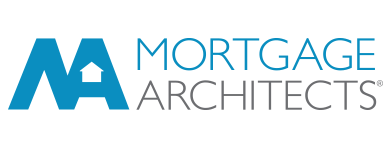
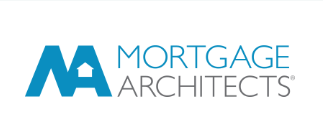
addwhitebackgroundlogos

Changed region(s): [[0.0, 0.2302, 0.9907, 0.7482]]

diff --git a/website2025/index.html b/website2025/index.html
@@ -68,6 +68,7 @@
                                 <li><span>Administrative Assistant</span><br>Java, JavaScript, Python, C, VB.net, SQL, C#, HTML, CSS, Scheme, GO</li>
                                 <img src="images/wie.png"class="logo" >
                                 <li><span>WIE Treasurer</span><br>MS Office 365, Google Workspace, GitHub, VSCode, Unity, Android Studio</li>
+                                <img src="images/uo.png"class="logo" >
                                 <li><span>Exam Proctor</span><br>MS Office 365, Google Workspace, GitHub, VSCode, Unity, Android Studio</li>                            
                                 <li><span>Server Assistant/Busser</span><br>Intel Quartus II Design Software, UML, advanced data structures,
                                      object-oriented programming,  experience with circuitry and hardware.</li>

diff --git a/website2025/style.css b/website2025/style.css
@@ -29,6 +29,8 @@ nav{
 }
 .logo{
     width: 140px;
+    height: 100;
+    border-radius: 5px;
 }
 
 nav ul li{
